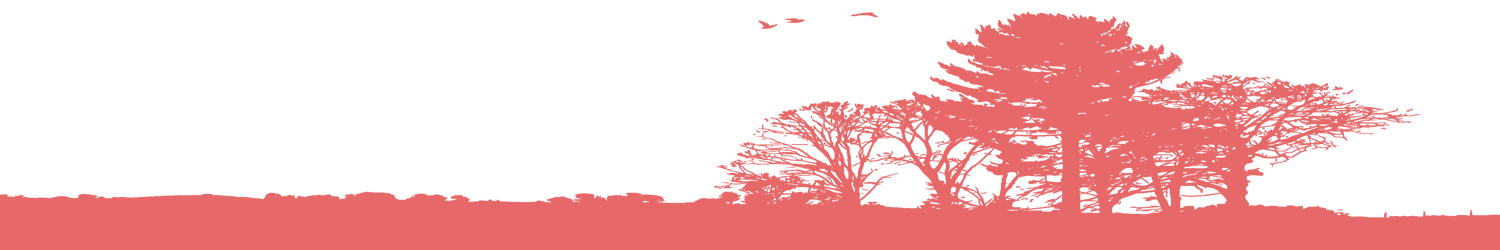
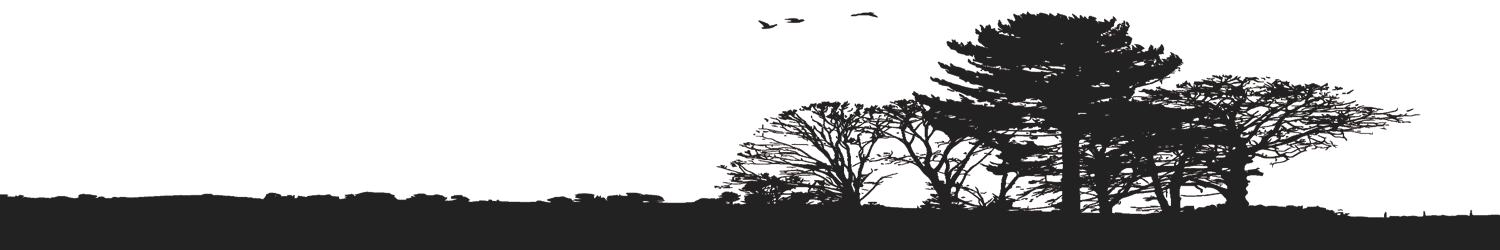
ADDED: made footer & contact section just perfect.

diff --git a/src/components/Projects/Projects.js b/src/components/Projects/Projects.js
@@ -16,7 +16,7 @@ function Projects() {
     return (
         <Desktop>
         <div className="Projects" id="projects">
-        <ScrollAnimation animateIn="fadeIn" duration={1}>
+        <ScrollAnimation animateIn="fadeIn" animateOut="fadeOut" duration={1}>
             <div className="ProjectsBanner">
                 <h1 className="ProjectsHeaders">Projects</h1>
                 <img src={Forest} alt="mountain art banner" className="ForestOneBanner" />
@@ -31,7 +31,7 @@ function Projects() {
                             <button className="ProjectsBtns">GitHub Link <i class="fab fa-github-alt"></i></button>
                         </div>
                     </ScrollAnimation>
-                    <ScrollAnimation animateIn='bounceInRight' duration={1.8}>
+                    <ScrollAnimation animateIn='bounceInLeft' duration={1.8}>
                         <div className="ProjectsTextWrapper">
                             <p className="ProjectsText">test test test test test test test test test test test test test test test test test test test test test test test test test test test test test test test test test test test </p>
                             <p className="ProjectsText">test test test test test test test test test test test test test test test test test test test test test test test test test test test test test test test test test test test </p>
@@ -69,7 +69,7 @@ function Projects() {
                             <button className="ProjectsBtns">GitHub Link <i class="fab fa-github-alt"></i></button>
                         </div>
                     </ScrollAnimation>
-                    <ScrollAnimation animateIn='bounceInRight' duration={1.8}>
+                    <ScrollAnimation animateIn='bounceInRight' duration={2.4}>
                         <div className="ProjectsTextWrapper">
                             <p className="ProjectsText">test test test test test test test test test test test test test test test test test test test test test test test test test test test test test test test test test test test </p>
                             <p className="ProjectsText">test test test test test test test test test test test test test test test test test test test test test test test test test test test test test test test test test test test </p>

diff --git a/src/components/Contact/Contact.js b/src/components/Contact/Contact.js
@@ -15,23 +15,25 @@ function Contact() {
     return (
         <div className="Contact" id="contact">
             <div className="ContactBanner">
-                <h1 className="ContactHeaders">Contact</h1>
+                <ScrollAnimation animateIn="fadeIn" duration={1}>
+                    <h1 className="ContactHeaders">Contact</h1>
+                </ScrollAnimation>
                 <img src={Forest} alt="forest art banner" className="ForestBanner2" />
             </div>
             <div className="ContactContent">
-            <ScrollAnimation animateIn="fadeIn" duration={1}>
                 <form className="ContactForm">
-                    <div className="ContactPosition">
-                        <div className="ContactInputsWrapper">
-                            <input type="text" name="firstName" placeholder="First Name" className="ContactInputs" />
-                            <input type="text" name="lastName" placeholder="Last Name" className="ContactInputs" />
-                            <input type="email" name="email" placeholder="Email" className="ContactInputs" />
+                    <ScrollAnimation animateIn="fadeIn" duration={1}>
+                        <div className="ContactPosition">
+                            <div className="ContactInputsWrapper">
+                                <input type="text" name="firstName" placeholder="First Name" className="ContactInputs" />
+                                <input type="text" name="lastName" placeholder="Last Name" className="ContactInputs" />
+                                <input type="email" name="email" placeholder="Email" className="ContactInputs" />
+                            </div>
+                            <textarea type="text" name="message" placeholder="Message..." id="ContactTextArea" />
                         </div>
-                        <textarea type="text" name="message" placeholder="Message..." id="ContactTextArea" />
-                    </div>
+                    </ScrollAnimation>
                     <button className="ContactSubmit" type="submit">Submit</button>
                 </form>
-            </ScrollAnimation>
             </div>
         </div>
     );

diff --git a/src/components/BackTop/BackTop.js b/src/components/BackTop/BackTop.js
@@ -1,0 +1,36 @@
+import React from 'react';
+import './BackTop.css';
+import "animate.css/animate.min.css";
+import Responsive from 'react-responsive';
+import { Link, animateScroll as scroll } from "react-scroll";
+ 
+const Desktop = props => <Responsive {...props} minWidth={992} />;
+const Desktop1 = props => <Responsive {...props} maxWidth={1100} />;
+const Tablet = props => <Responsive {...props} minWidth={768} maxWidth={991} />;
+const Mobile = props => <Responsive {...props} maxWidth={767} />;
+const Default = props => <Responsive {...props} minWidth={768} />;
+
+function Projects() {
+            
+    return (
+        <div className="BackTop">
+                <Link
+                    className="BackToTop"
+                    activeClass="active"
+                    to="home"
+                    spy={true}
+                    smooth={true}
+                    offset={-40}
+                    duration= {1000} >
+                        <i class="fas fa-chevron-circle-up"></i>
+                </Link>
+                <div className="BackTopSocials">
+                    <i className="fab fa-instagram BackTopIcon BT1"></i>
+                    <i className="fab fa-github BackTopIcon BT2"></i>
+                    <i className="fab fa-linkedin BackTopIcon BT3"></i>
+                </div>
+        </div>
+    );
+}
+
+export default Projects;

diff --git a/src/components/Contact/Contact.css b/src/components/Contact/Contact.css
@@ -11,7 +11,7 @@
     left: 80%;
 
     font-size: 3rem;
-    background-color: #E76868;
+    background-color: #222;
     color: #FAFBD2;
     padding: 10px 15px;
     text-align: left;
@@ -22,7 +22,7 @@
     display: flex;
     justify-content: center;
     align-items: center;
-    background-color: #E76868;
+    background-color: #222;
 }
 .ContactForm {
     display: flex;
@@ -47,7 +47,7 @@
     margin: 15px;
     background-color: #FAFBD2;
     border-radius: 10px;
-    border: 2px solid #222;
+    border: 2px solid #E76768;
 }
 .ContactInputs:focus {
     outline: none;
@@ -60,7 +60,7 @@
     padding: 5px 10px;
     background-color: #FAFBD2;
     border-radius: 10px;
-    border: 2px solid #222;
+    border: 2px solid #E76768;
 }
 #ContactTextArea:focus {
     outline: none;
@@ -69,16 +69,17 @@
     font-size: 2rem;
     padding: 5px 10px;
     border-radius: 10px;
-    background-color: #FAFBD2;
-    color: #222;
+    background-color: #E76768;
+    color: #FAFBD2;
     cursor: pointer;
-    border: 2px solid #222;
+    border: 2px solid #E76768;
+    transform: translateX(50px, 20px);
 
-    transition: all 0.3s;
+    transition: all 0.2s;
 }
 .ContactSubmit:hover {
-    color: #FAFBD2;
-    background-color: #222;
+    border-color: #CF5C5D;
+    background-color: #CF5C5D
 }
 .ContactSubmit:focus {
     outline: none;

diff --git a/src/components/BackTop/BackTop.css b/src/components/BackTop/BackTop.css
@@ -1,0 +1,48 @@
+.BackTop {
+    position: absolute;
+    transform: translate(50px, -150px);
+}
+.BackToTop {
+    font-size: 3rem;
+    cursor: pointer;
+    border: 5px solid #E76768;
+    color: #FAFAD2;
+    background-color: #E76768;
+    padding: 0px 10px;
+    border-radius: 10px;
+
+    transition: all 0.2s;
+}
+.BackToTop:hover {
+    border-color: #CF5C5D;
+    background-color: #CF5C5D;
+}
+.BackTopSocials {
+    display: flex;
+    justify-content: center;
+    align-items: center;
+}
+.BackTopIcon {
+    font-size: 2.5rem;
+    color:#E76768;
+    background-color: #FAFAD2;
+    border: 2px solid #E76768;
+    border-radius: 10px;
+    padding: 5px 10px;
+    cursor: pointer;
+
+    transition: all 0.2s;
+}
+.BackTopIcon:hover {
+    color: #FAFAD2;
+    background-color: #CF5C5D;
+}
+.BT1 {
+    transform: translate(-70px, -20px);
+}
+.BT2 {
+    transform: translate(-50px, 30px);
+}
+.BT3 {
+    transform: translate(-30px, -20px);
+}

diff --git a/src/components/Footer/Footer.js b/src/components/Footer/Footer.js
@@ -2,20 +2,12 @@ import React, { useState } from 'react';
 import './Footer.css';
 import "animate.css/animate.min.css";
 import FooterImg from '../../images/footer.png';
-import { Link, animateScroll as scroll } from "react-scroll";
+import BackTop from '../BackTop/BackTop';
 
 function Footer() {
     return (
         <div className="Footer">
-            <Link   
-                activeClass="active"
-                to="home"
-                spy={true}
-                smooth={true}
-                offset={-40}
-                duration= {1000} >
-                    <i className="fas fa-chevron-up BackToTop"></i>
-            </Link>
+            <BackTop />
             <img src={FooterImg} alt="footer banner" className="FooterBanner" />
             <span className="FooterText"> Copyright &copy; {new Date().getFullYear()} | H. Steven Shaw</span>
         </div>

diff --git a/src/components/Footer/Footer.css b/src/components/Footer/Footer.css
@@ -14,21 +14,7 @@
     color: #999;
     margin: 20px;
 }
-.BackToTop {
+.FooterBackTop {
     position: absolute;
-    font-size: 3rem;
-    transform: translate(-50px, 0px);
-    color: #222;
-    background-color: #FAFAD2;
-    border-radius: 100%;
-    padding: 15px 20px;
-    cursor: pointer;
-    border: 2px solid #222;
-
-    transition: all 0.3s;
-}
-.BackToTop:hover {
-    color: #FAFAD2;
-    background-color: #222;
-    border-color: #FAFAD2;
+    font-size: 10rem;
 }
